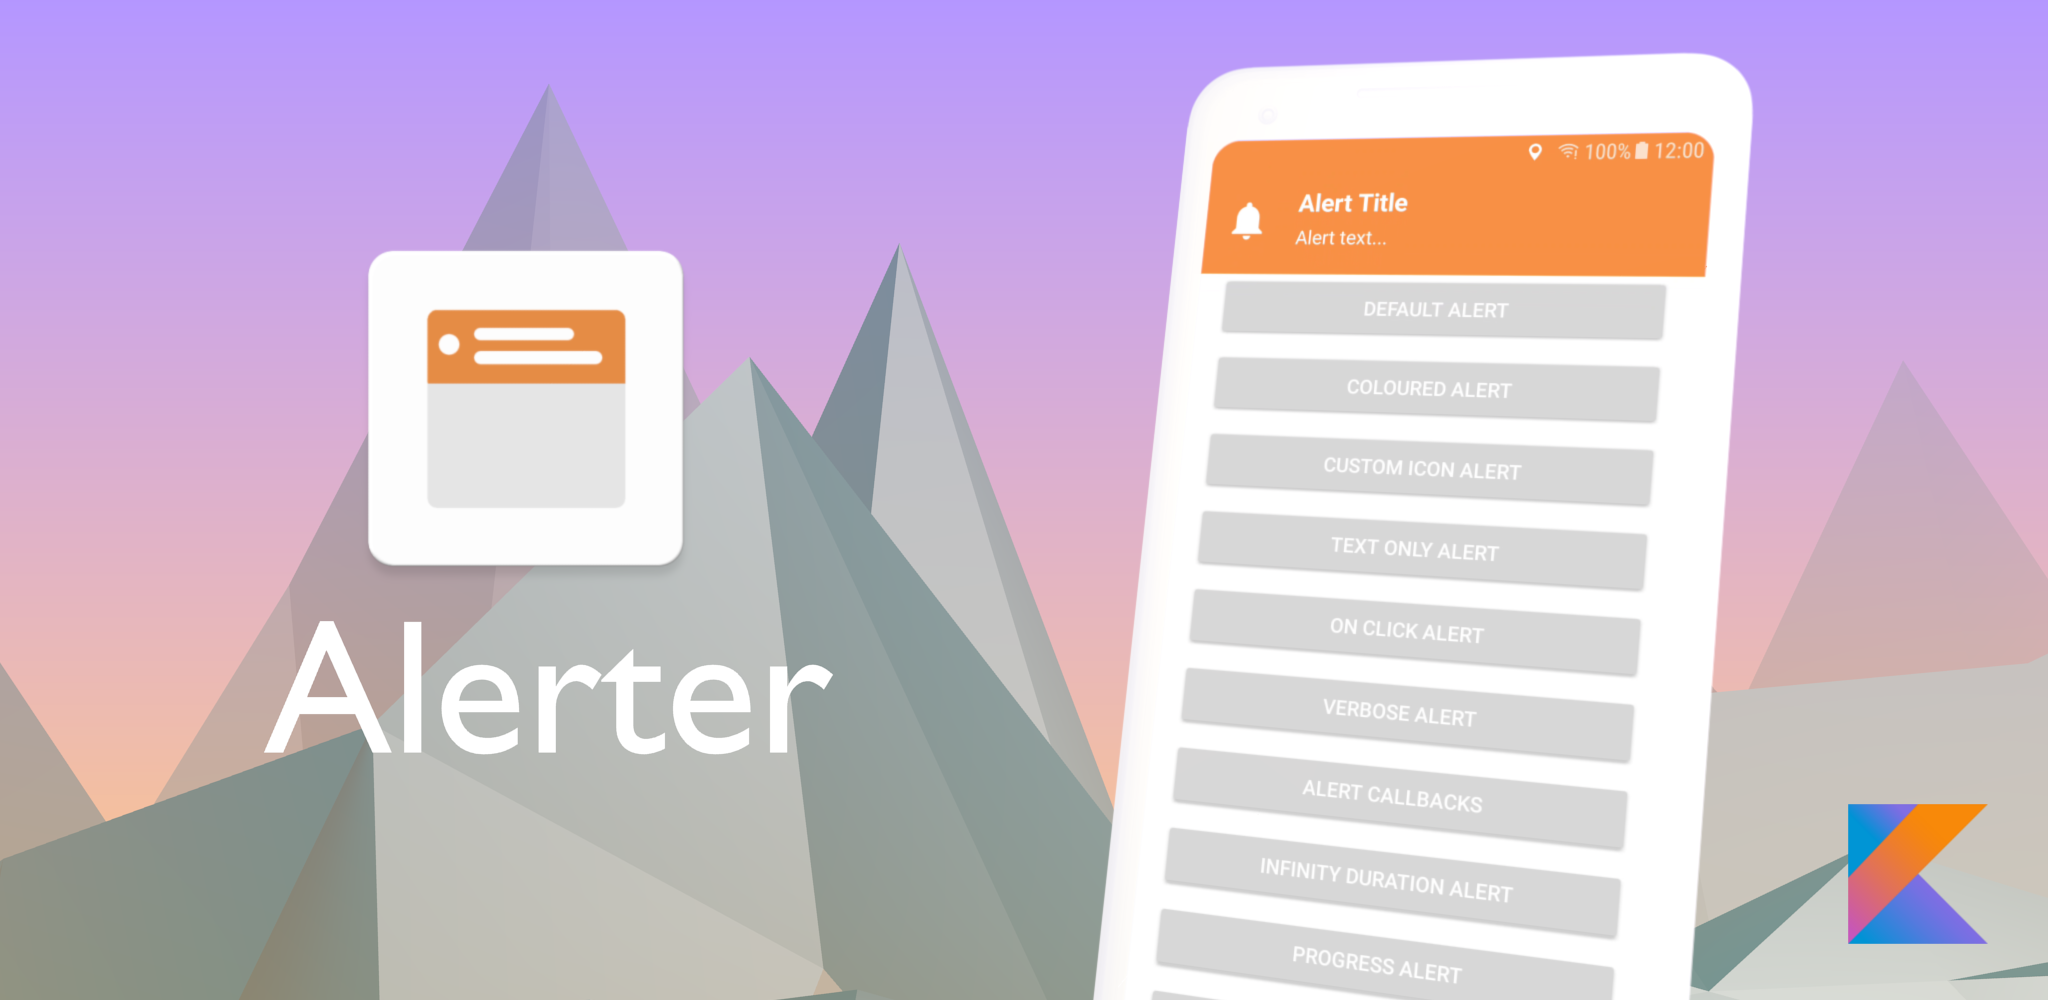
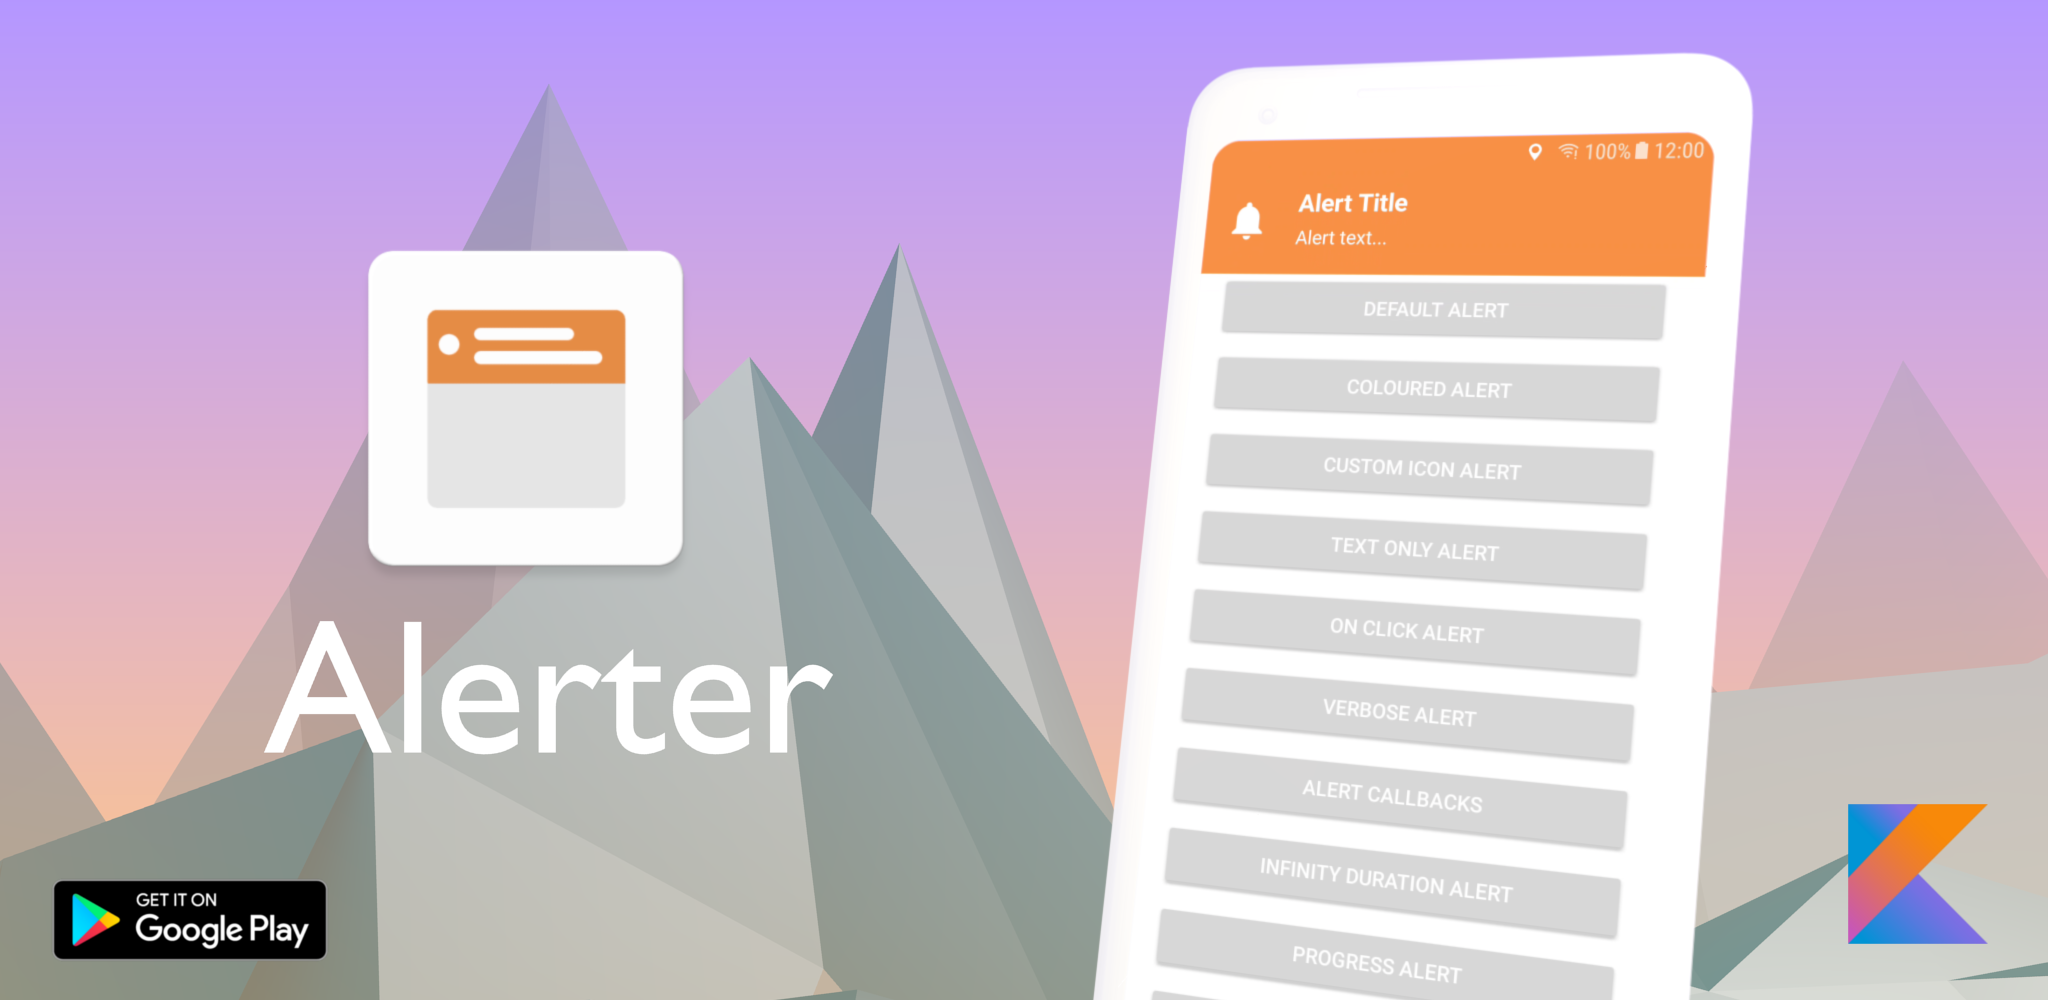
Added Play Store link to Header

Changed region(s): [[0.0, 0.868, 0.1562, 0.961]]

diff --git a/README.md b/README.md
@@ -3,11 +3,9 @@
 This library aims to overcome the limitations of Toasts and Snackbars, while reducing the
 complexity of your layouts.
 
-[![Download](https://api.bintray.com/packages/tapadoo/maven/alerter/images/download.svg) ](https://bintray.com/tapadoo/maven/alerter/_latestVersion)  [![Android Arsenal](https://img.shields.io/badge/Android%20Arsenal-Alerter-blue.svg?style=flat)](https://android-arsenal.com/details/1/5302)
+[![Download](https://api.bintray.com/packages/tapadoo/maven/alerter/images/download.svg) ](https://bintray.com/tapadoo/maven/alerter/_latestVersion) [![API](https://img.shields.io/badge/API-14%2B-orange.svg?style=flat)](https://android-arsenal.com/api?level=14)  [![Android Arsenal](https://img.shields.io/badge/Android%20Arsenal-Alerter-blue.svg?style=flat)](https://android-arsenal.com/details/1/5302)
 
-![Icon](./documentation/header.png)
-
-![Play Store Demo](./documentation/google-play-badge.png)(https://play.google.com/store/apps/details?id=com.tapadoo.alerter_demo)
+[![Header](./documentation/header.png)](https://play.google.com/store/apps/details?id=com.tapadoo.alerter_demo)
 
 ### General
 
